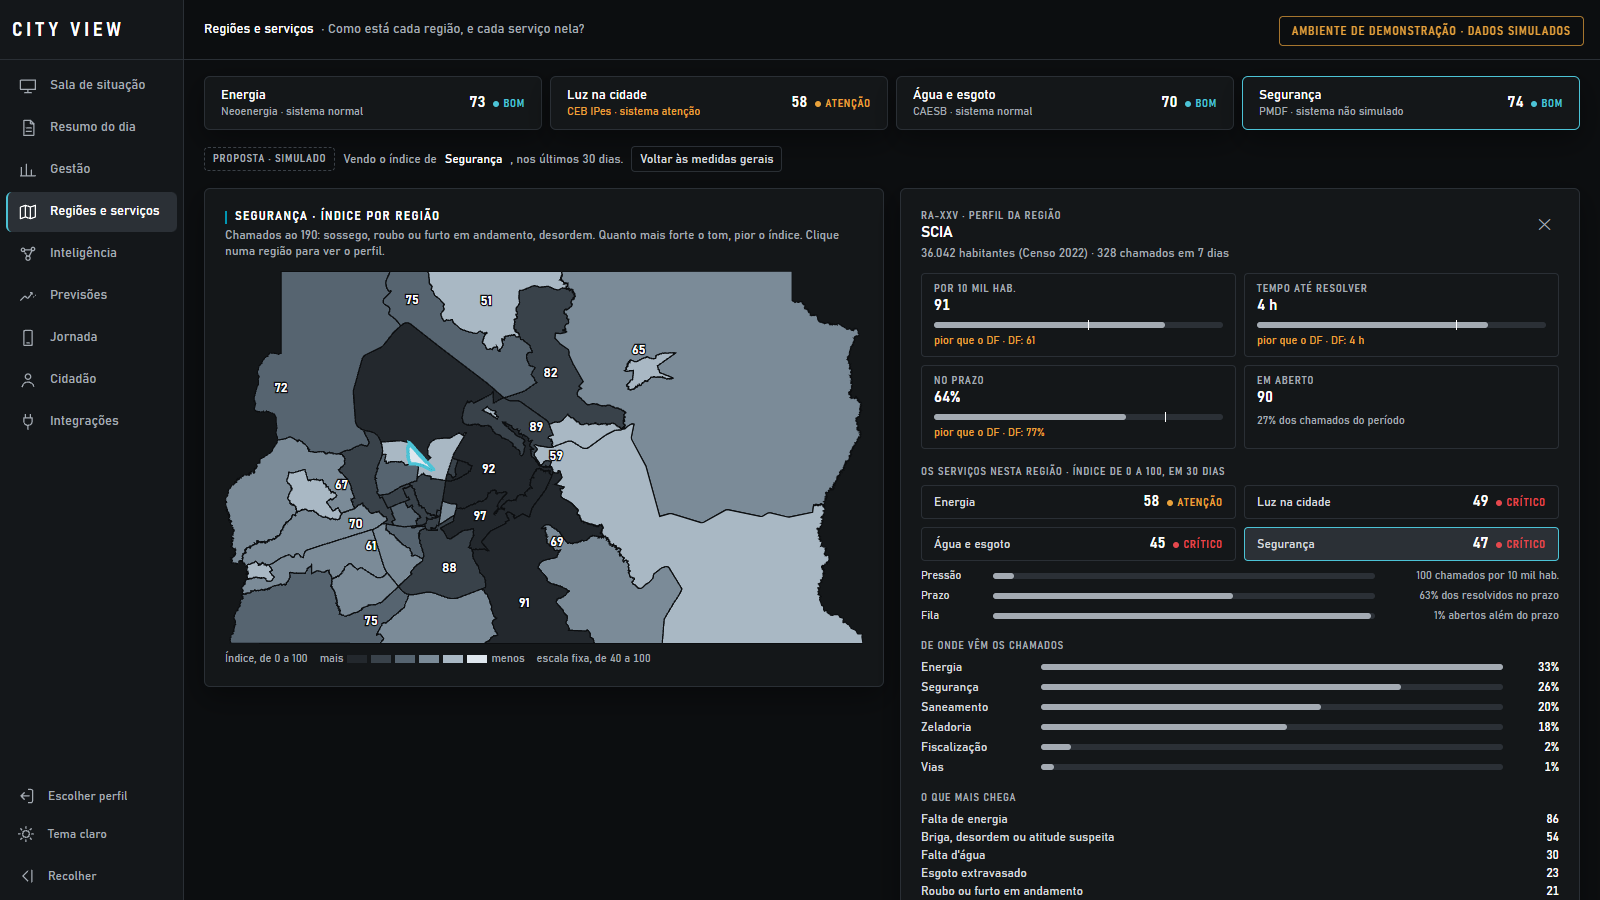
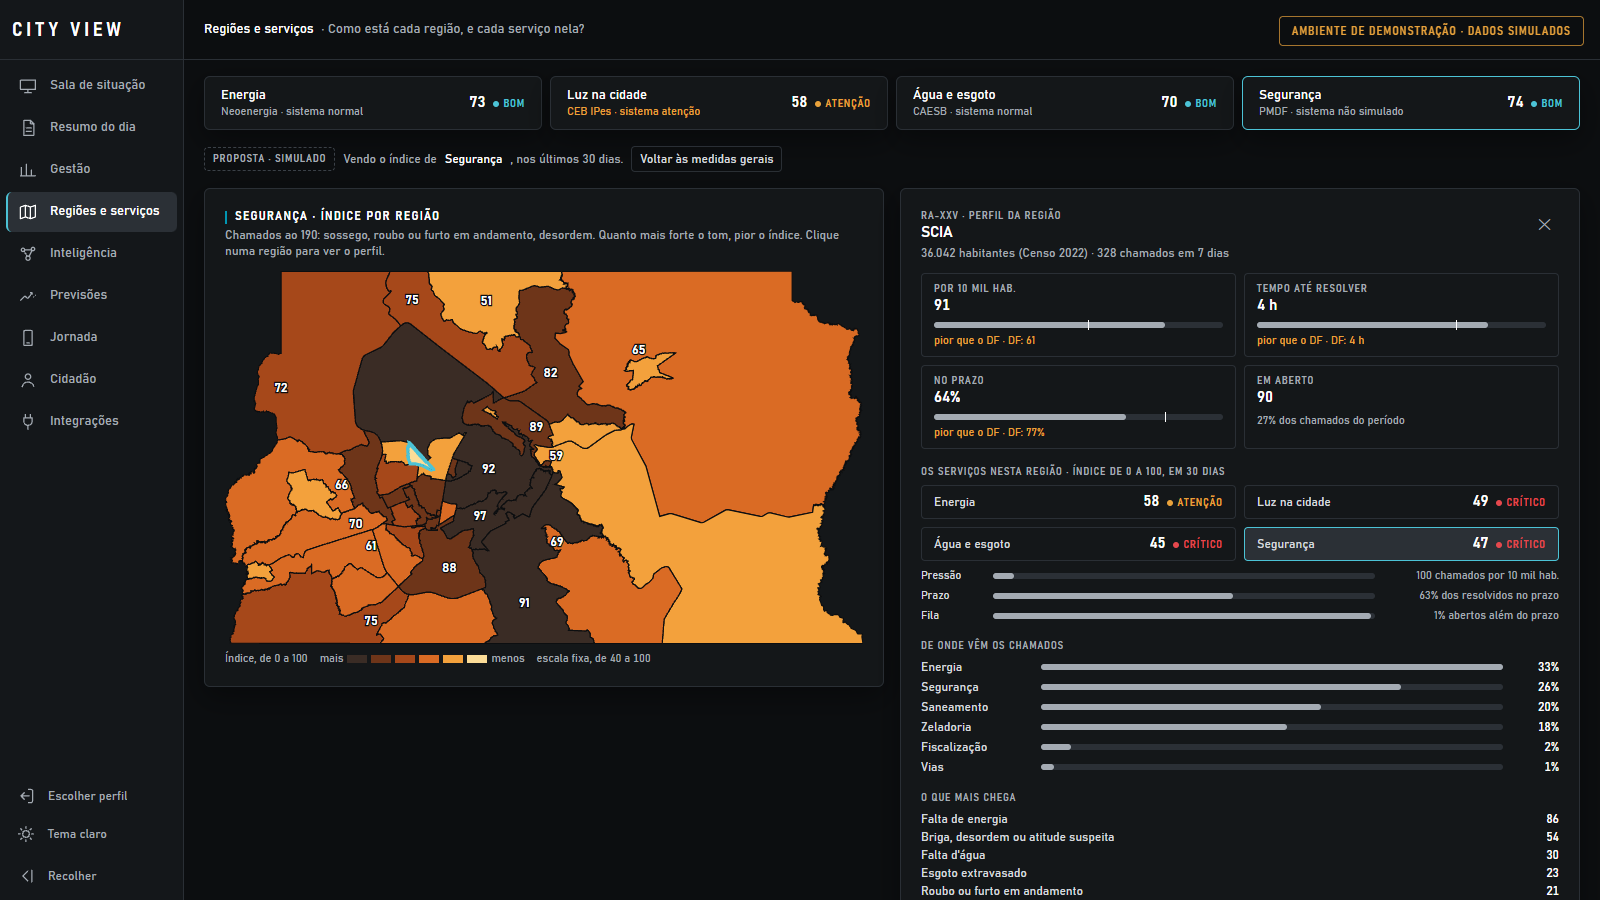
Demo: os mapas por região ganham cor
Saem os tons de cinza; entra uma cor só, a família quente do calor da sala
(quanto mais quente, mais chamados ou pior o índice), nos dois temas. A região
escolhida continua com o contorno do acento. O mapa público segue em verde.

Changed region(s): [[0.125, 0.28, 0.5625, 0.7467]]

diff --git a/demo-view/src/estilos.css b/demo-view/src/estilos.css
@@ -54,14 +54,15 @@
   color-scheme: light;
 }
 
-/* Tons dos mapas em cores (`ui/MapaDasRas.tsx`): do pouco ao muito. No escuro o
-   muito é claro; no claro, o muito é escuro. */
+/* Tons dos mapas em cores (`ui/MapaDasRas.tsx`): do pouco ao muito, numa cor só
+   (a mesma família quente do calor da sala: quanto mais quente, mais chamados ou
+   pior o índice). No escuro o muito é claro; no claro, o muito é escuro. */
 :root {
-  --tom-0: #23282d; --tom-1: #39424a; --tom-2: #566470; --tom-3: #7b8b98; --tom-4: #a9b8c4; --tom-5: #dfe7ee;
+  --tom-0: #3a2c25; --tom-1: #6e3519; --tom-2: #a6481a; --tom-3: #da6b24; --tom-4: #f3a13c; --tom-5: #fbdc97;
   --verde-0: #1d2a22; --verde-1: #24402b; --verde-2: #2d5a37; --verde-3: #3a7a45; --verde-4: #49a054; --verde-5: #63c96b;
 }
 :root[data-tema='claro'] {
-  --tom-0: #e3e8ec; --tom-1: #c5ced6; --tom-2: #9fadb9; --tom-3: #76879a; --tom-4: #4f6072; --tom-5: #2a3745;
+  --tom-0: #fdebc8; --tom-1: #f8c98a; --tom-2: #ee9f52; --tom-3: #d9742a; --tom-4: #a84e1c; --tom-5: #6b3216;
   --verde-0: #e4f2e5; --verde-1: #c2e3c5; --verde-2: #98d09d; --verde-3: #68b870; --verde-4: #3f9a49; --verde-5: #23762d;
 }
 

diff --git a/demo-view/src/ui/MapaDasRas.tsx b/demo-view/src/ui/MapaDasRas.tsx
@@ -31,7 +31,7 @@ const DESENHOS = REGIOES.map((r) => {
 /** As regiões em que cabe escrever o valor. */
 const COM_ROTULO = new Set([...DESENHOS].sort((a, b) => b.tamanho - a.tamanho).slice(0, 16).map((r) => r.id));
 
-/** Do pouco ao muito: tons neutros (definidos no CSS, por tema), para a seleção e os alertas ficarem com a cor. */
+/** Do pouco ao muito, numa cor só: a família quente do calor da sala (definida no CSS, por tema). A seleção fica com o acento, que é frio. */
 export const TONS = [0, 1, 2, 3, 4, 5].map((k) => `var(--tom-${k})`);
 
 export function MapaDasRas({ valores, selecionada, aoEscolher, formato, rotulo, tons = TONS, invertida = false, dominio, comValor = false, className = '' }: {

diff --git a/demo-view/README.md b/demo-view/README.md
@@ -341,6 +341,12 @@ ficou repetindo Regiões e foi **fundida nela** no mesmo dia. Branch
 Capturas: `capturas/regioes-servico.png`, `capturas/regioes-servico-regiao.png`.
 A demo tem nove telas. Testes: 341.
 
+*Acréscimo de 13/11/2026 · cor nos mapas por região.* Os mapas em cores
+(`ui/MapaDasRas.tsx`: Regiões e serviços, e o mapa das perguntas no Resumo)
+deixam o cinza e passam a usar uma cor só, a família quente do calor da sala:
+quanto mais quente, mais chamados ou pior o índice. A região escolhida continua
+com o contorno do acento, que é frio. O mapa público segue em verde.
+
 **Previsões** (feita, aguardando revisão; proposta): as próximas duas semanas
 com a margem, o que está fora do normal agora, o que deve subir e cair, onde
 reforçar as equipes e o acerto do método, medido ao prever as duas últimas
